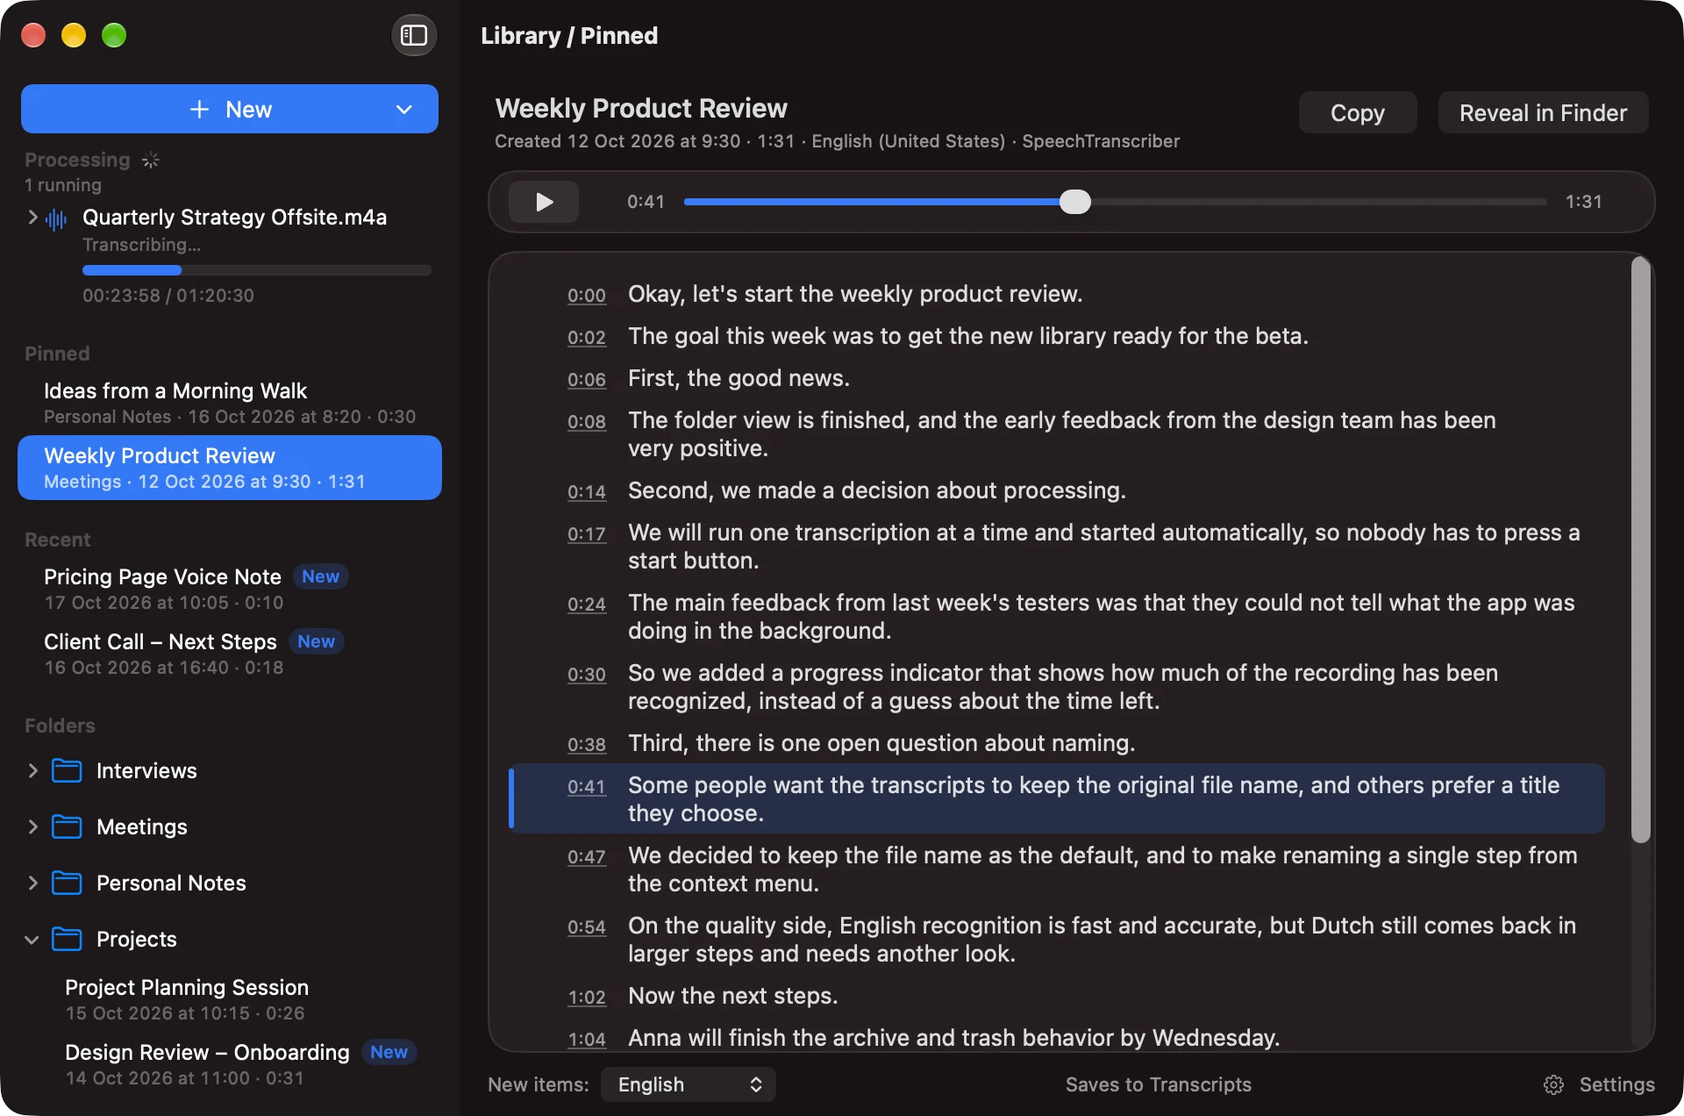
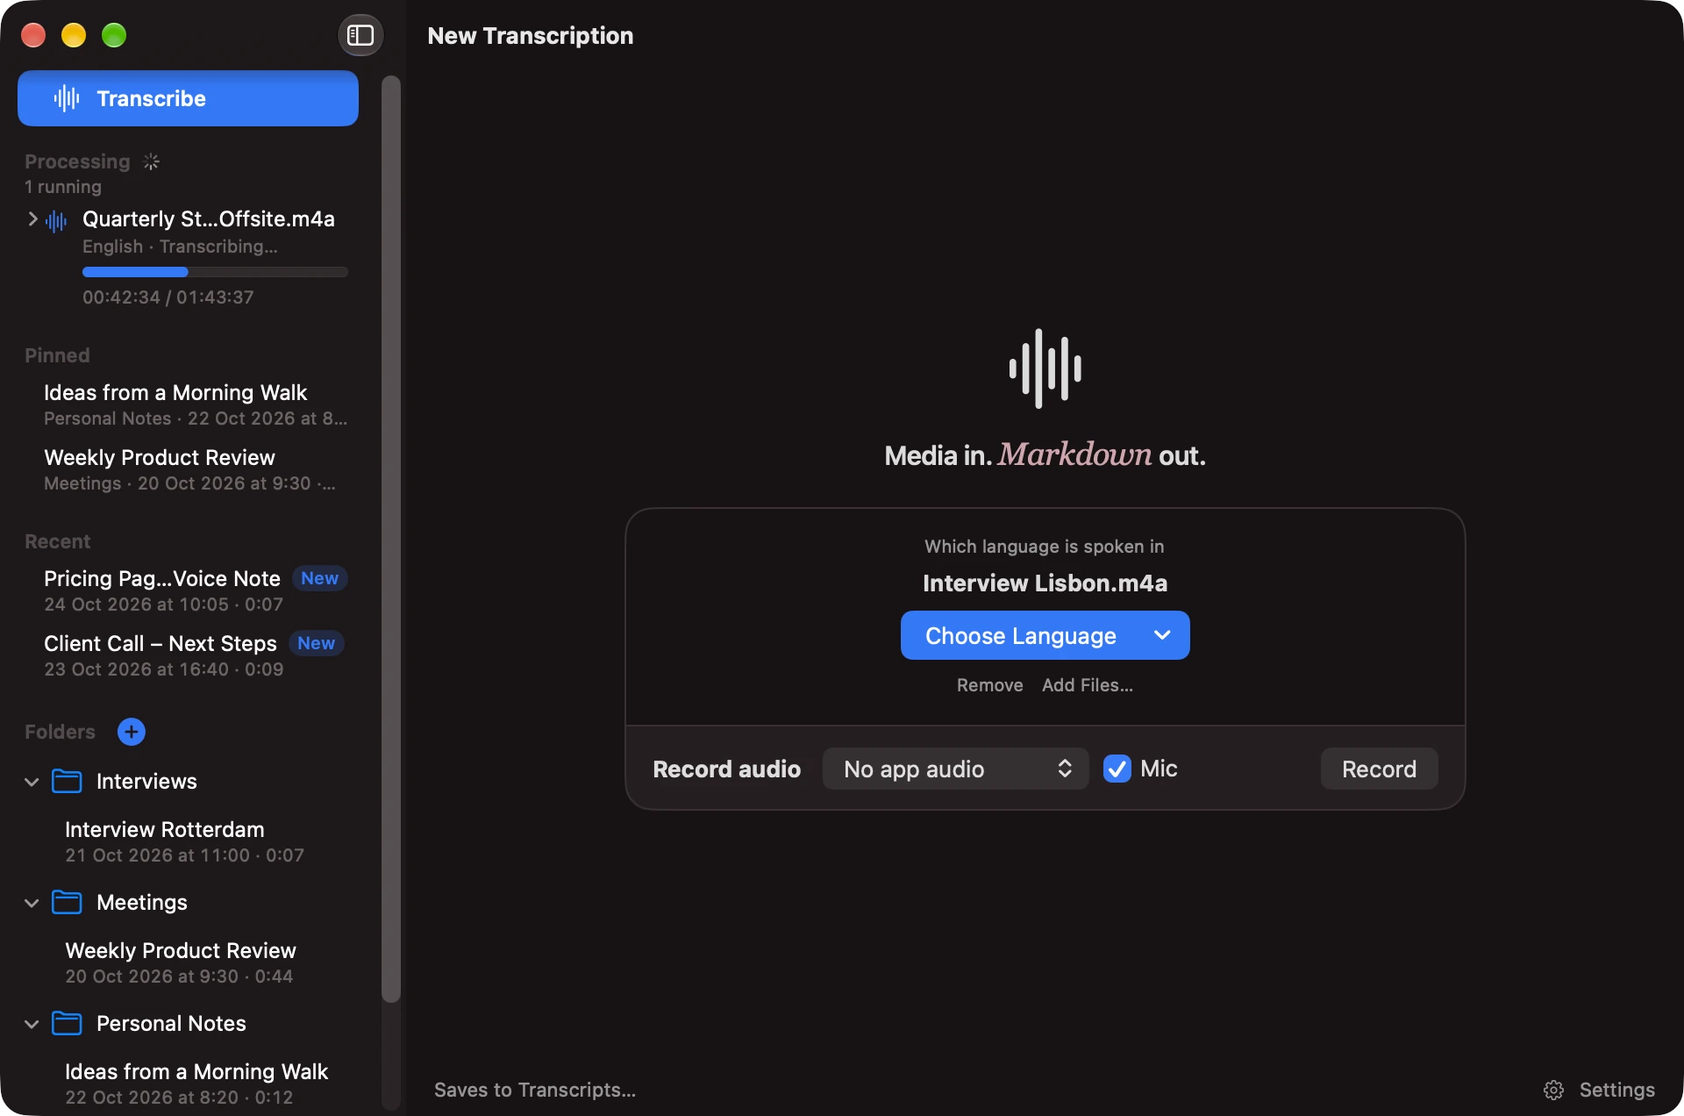
Add the v0.9.0 Journal entry and v0.9.0 screenshots, social preview and alt text (LTR-75)

diff --git a/website/journal/0.9.0/index.html b/website/journal/0.9.0/index.html
@@ -1,0 +1,149 @@
+<!DOCTYPE html>
+<html lang="en">
+<head>
+<meta charset="utf-8">
+<meta name="viewport" content="width=device-width, initial-scale=1">
+<title>0.9.0: Transcription, in your language - Local Transcriber Journal</title>
+<meta name="description" content="0.8.0 kept recordings safe on the way out. 0.9.0 asks which language is spoken in every file, link and recording, keeps a recording until it has one, opens the transcript when it is done, and tidies the place where it all starts.">
+<meta name="theme-color" content="#f3f0ea">
+<link rel="canonical" href="https://transcribe.wavesweb.nl/journal/0.9.0/">
+<meta property="og:type" content="article">
+<meta property="og:site_name" content="Local Transcriber">
+<meta property="og:locale" content="en_US">
+<meta property="og:url" content="https://transcribe.wavesweb.nl/journal/0.9.0/">
+<meta property="og:title" content="0.9.0: Transcription, in your language - Local Transcriber Journal">
+<meta property="og:description" content="0.8.0 kept recordings safe on the way out. 0.9.0 asks which language is spoken in every file, link and recording, keeps a recording until it has one, opens the transcript when it is done, and tidies the place where it all starts.">
+<meta property="og:image" content="https://transcribe.wavesweb.nl/og.png">
+<meta property="og:image:type" content="image/png">
+<meta property="og:image:width" content="1200">
+<meta property="og:image:height" content="630">
+<meta property="og:image:alt" content="Local Transcriber: Media in. Markdown out. The Local Transcriber window with Transcribe selected, a transcription in progress, pinned and recent transcripts and folders.">
+<meta name="twitter:card" content="summary_large_image">
+<link rel="icon" href="/favicon.svg" type="image/svg+xml">
+<link rel="icon" href="/favicon.png" type="image/png" sizes="32x32">
+<link rel="apple-touch-icon" href="/apple-touch-icon.png">
+<link rel="stylesheet" href="/styles.css">
+<script>
+  // Light unless the visitor explicitly saved dark. The OS appearance is ignored.
+  (function () {
+    var root = document.documentElement;
+    root.classList.add("js");
+    try {
+      if (localStorage.getItem("lt-theme") === "dark") {
+        root.setAttribute("data-theme", "dark");
+        document.querySelector('meta[name="theme-color"]').content = "#171214";
+      }
+    } catch (e) {}
+  })();
+</script>
+</head>
+<body>
+
+<a class="skip" href="#main">Skip to content</a>
+
+<header class="nav">
+  <div class="wrap nav-inner">
+    <a class="brand" href="/">
+      <svg class="mark" viewBox="0 0 66 52" width="24" height="19" aria-hidden="true" focusable="false">
+        <rect x="0" y="19" width="6" height="14" rx="3"/>
+        <rect x="10" y="13" width="6" height="26" rx="3"/>
+        <rect x="20" y="7" width="6" height="38" rx="3"/>
+        <rect x="30" y="0" width="6" height="52" rx="3"/>
+        <rect x="40" y="7" width="6" height="38" rx="3"/>
+        <rect x="50" y="13" width="6" height="26" rx="3"/>
+        <rect x="60" y="19" width="6" height="14" rx="3"/>
+      </svg>
+      Local Transcriber
+    </a>
+    <nav class="nav-links" aria-label="Sections">
+      <a href="/#how">How it works</a>
+      <a href="/#output">Output</a>
+      <a href="/#local">Local and network</a>
+      <a href="/#download">Download</a>
+    </nav>
+    <div class="nav-tools">
+      <a class="nav-gh" href="/">Home</a>
+      <a class="nav-gh" href="https://github.com/loneborz/local-transcriber" target="_blank" rel="noopener noreferrer">GitHub</a>
+      <button class="theme-toggle" type="button" data-theme-toggle aria-pressed="false" aria-label="Dark theme">
+        <svg class="icon-sun" viewBox="0 0 24 24" aria-hidden="true" focusable="false"><circle cx="12" cy="12" r="4"/><path d="M12 3.2v1.9M12 18.9v1.9M3.2 12h1.9M18.9 12h1.9M5.8 5.8l1.3 1.3M16.9 16.9l1.3 1.3M5.8 18.2l1.3-1.3M16.9 7.1l1.3-1.3"/></svg>
+        <svg class="icon-moon" viewBox="0 0 24 24" aria-hidden="true" focusable="false"><path d="M18.6 14.8A7.4 7.4 0 1 1 9.2 5.4a6 6 0 0 0 9.4 9.4z"/></svg>
+      </button>
+    </div>
+  </div>
+</header>
+
+<main id="main" class="section journal">
+  <div class="wrap">
+    <article class="journal-grid" id="top">
+      <div>
+        <a class="back" href="/journal/">&larr; Journal</a>
+        <p class="journal-meta">0.9.0<br>Oct 25, 2026<br>GitHub Release</p>
+      </div>
+      <div>
+        <h1>Transcription, in your language</h1>
+        <p class="lead">Until now the language was a menu in the footer. Whatever it said when a file arrived was the language that file got, so files in different languages one after another meant changing the menu in between, and forgetting it meant a transcript in the wrong language. 0.9.0 asks for every file, link and recording instead. The speech recognition is the same as in 0.8; what changed is how a file gets to it.</p>
+        <div class="prose">
+          <h2>One question per file</h2>
+          <p>When I drop a file, paste one or a YouTube link with ⌘V, or choose files from the window, the New Transcription area asks which language is spoken in it. It shows the name and one Choose Language menu, and nothing is preselected: the app doesn't guess. Choosing a language starts the transcription. The three languages I used most recently sit at the top of the menu, so switching between them is one click, and every other supported language is right below.</p>
+          <p>Several files at once are offered one at a time. I can give the next one its language while the first is still transcribing; they run one after another, in order. Remove skips a file without touching the original.</p>
+          <h2>Record first, decide later</h2>
+          <p>A recording is now saved to its own folder before the app asks for its language. If I quit before answering, nothing is lost: the next time the app opens, it offers the recording again and writes the transcript next to the audio. Closing the window while recording still asks first, and the saved recording waits for its language in another window. A crash or a force quit during a recording still loses it.</p>
+          <h2>The transcript comes to me</h2>
+          <p>In 0.7 and 0.8 a finished transcript only appeared in the library with a New badge. Now, when everything I started in a window is done, that window opens the last transcript it saved. If I have opened something else in the meantime, it leaves me there, and a run that only failed opens nothing.</p>
+          <h2>A calmer place to start</h2>
+          <p>The New Transcription screen is one compact surface: the drop area, and below it a single row to record an app's audio, the microphone or both, under the waveform mark. Transcribe at the top of the sidebar brings me back to it and stays selected while it is shown. New Folder is the plus button next to Folders. The footer keeps only the output folder and Settings.</p>
+          <h2>The sixth language</h2>
+          <p>While testing all of this, a transcription in a sixth different language failed with "Too many allocated locales". Apple lets an app keep only a few languages reserved at a time, five on my Mac, and the app never gave one back. Now, when a new language needs room, it releases the one it used least recently. macOS may then remove that language's files, so using it again can mean another download, and until then it may not work offline.</p>
+          <p>The app still doesn't detect the language by itself, and the recognition is Apple's. Dutch transcripts can still come back thin.</p>
+        </div>
+        <nav aria-label="Journal">
+          <a class="back" href="/journal/">&larr; Back to the Journal</a>
+          <a class="back" href="/journal/0.8.0/" rel="prev">Earlier story: 0.8.0</a>
+        </nav>
+      </div>
+    </article>
+  </div>
+</main>
+
+<footer class="footer">
+  <div class="wrap footer-inner">
+    <p>
+      Local Transcriber is open source under the
+      <a href="https://github.com/loneborz/local-transcriber/blob/main/LICENSE" target="_blank" rel="noopener noreferrer">MIT License</a>.
+      A <a href="https://wavesweb.nl/">Wavesweb</a> Labs project.
+    </p>
+    <nav aria-label="Footer">
+      <a href="/journal/">Journal</a>
+      <a href="https://github.com/loneborz/local-transcriber" target="_blank" rel="noopener noreferrer">GitHub</a>
+      <a href="https://github.com/loneborz/local-transcriber#readme" target="_blank" rel="noopener noreferrer">README</a>
+      <a href="#top">Back to top</a>
+    </nav>
+  </div>
+</footer>
+
+<script>
+  (function () {
+    var root = document.documentElement;
+    var button = document.querySelector("[data-theme-toggle]");
+    var meta = document.querySelector('meta[name="theme-color"]');
+    function sync() {
+      var dark = root.getAttribute("data-theme") === "dark";
+      button.setAttribute("aria-pressed", dark ? "true" : "false");
+      meta.content = dark ? "#171214" : "#f3f0ea";
+    }
+    button.addEventListener("click", function () {
+      var next = root.getAttribute("data-theme") === "dark" ? "light" : "dark";
+      // Switch with transitions off, so the change lands at once.
+      root.classList.add("theme-switching");
+      root.setAttribute("data-theme", next);
+      getComputedStyle(root).colorScheme;
+      root.classList.remove("theme-switching");
+      try { localStorage.setItem("lt-theme", next); } catch (e) {}
+      sync();
+    });
+    sync();
+  })();
+</script>
+
+</body>
+</html>

diff --git a/website/index.html b/website/index.html
@@ -17,12 +17,12 @@
 <meta property="og:image:type" content="image/png">
 <meta property="og:image:width" content="1200">
 <meta property="og:image:height" content="630">
-<meta property="og:image:alt" content="Local Transcriber: Media in. Markdown out. The Local Transcriber window with a transcription in progress, pinned and recent transcripts and folders, and an open transcript with its current line highlighted.">
+<meta property="og:image:alt" content="Local Transcriber: Media in. Markdown out. The Local Transcriber window with Transcribe selected, a transcription in progress, pinned and recent transcripts and folders.">
 <meta name="twitter:card" content="summary_large_image">
 <meta name="twitter:title" content="Local Transcriber - Media in. Markdown out.">
 <meta name="twitter:description" content="A native macOS app that turns audio, video, YouTube links and your own recordings into timestamped Markdown transcripts, with speech recognition on your Mac.">
 <meta name="twitter:image" content="https://transcribe.wavesweb.nl/og.png">
-<meta name="twitter:image:alt" content="Local Transcriber: Media in. Markdown out. The Local Transcriber window with a transcription in progress, pinned and recent transcripts and folders, and an open transcript with its current line highlighted.">
+<meta name="twitter:image:alt" content="Local Transcriber: Media in. Markdown out. The Local Transcriber window with Transcribe selected, a transcription in progress, pinned and recent transcripts and folders.">
 <link rel="icon" href="favicon.svg" type="image/svg+xml">
 <link rel="icon" href="favicon.png" type="image/png" sizes="32x32">
 <link rel="apple-touch-icon" href="apple-touch-icon.png">
@@ -106,9 +106,9 @@
     <div class="hero-visual">
       <figure class="shot">
         <img class="shot-light" src="assets/library-light.webp" width="1920" height="1272"
-             alt="The Local Transcriber window as it looked in version 0.7.0: the sidebar shows a transcription in progress under Processing with its progress bar and position, Pinned and Recent transcripts with New badges, and folders; the Weekly Product Review transcript is open with a player at 0:41 of 1:31 and timestamped lines, the line at 0:41 highlighted; the footer of that version shows the language for new items, the output folder and Settings.">
+             alt="The Local Transcriber window: the sidebar has Transcribe selected, a transcription in progress under Processing with its language, progress bar and position, Pinned and Recent transcripts with New badges, and folders with the plus button for a new folder; New Transcription shows the waveform mark and the compact composer, which asks which language is spoken in Interview Lisbon.m4a with a Choose Language menu above the Record audio row; the footer shows the output folder and Settings.">
         <img class="shot-dark" src="assets/library-dark.webp" width="1920" height="1272"
-             alt="The Local Transcriber window as it looked in version 0.7.0: the sidebar shows a transcription in progress under Processing with its progress bar and position, Pinned and Recent transcripts with New badges, and folders; the Weekly Product Review transcript is open with a player at 0:41 of 1:31 and timestamped lines, the line at 0:41 highlighted; the footer of that version shows the language for new items, the output folder and Settings.">
+             alt="The Local Transcriber window: the sidebar has Transcribe selected, a transcription in progress under Processing with its language, progress bar and position, Pinned and Recent transcripts with New badges, and folders with the plus button for a new folder; New Transcription shows the waveform mark and the compact composer, which asks which language is spoken in Interview Lisbon.m4a with a Choose Language menu above the Record audio row; the footer shows the output folder and Settings.">
       </figure>
     </div>
 
@@ -117,7 +117,7 @@
 <pre tabindex="0"><code><span class="md-h"># Weekly Product Review</span>
 
 <span class="md-k">**Source:**</span> `Weekly Product Review.m4a`
-<span class="md-k">**Duration:**</span> 00:01:31
+<span class="md-k">**Duration:**</span> 00:00:44
 <span class="md-k">**Language:**</span> en-US
 <span class="md-k">**Engine:**</span> Apple SpeechAnalyzer
 
@@ -125,7 +125,7 @@
 
 <span class="md-h">### 00:00:00</span>
 
-Okay, let's start the weekly product review. The goal this week was to get the new library ready for the beta. First, the good news. The folder view is finished, and the early feedback from the design team has been very positive. <span class="md-dim">…</span></code></pre>
+Okay, let's start the weekly product review. The goal this week was to get the language choice ready for the beta. First, the good news. Every file now asks which language is spoken before it starts, and the early feedback from the design team has been very positive. <span class="md-dim">…</span></code></pre>
     </figure>
   </div>
 </section>

diff --git a/website/journal/index.html b/website/journal/index.html
@@ -17,7 +17,7 @@
 <meta property="og:image:type" content="image/png">
 <meta property="og:image:width" content="1200">
 <meta property="og:image:height" content="630">
-<meta property="og:image:alt" content="Local Transcriber: Media in. Markdown out. The Local Transcriber window with a transcription in progress, pinned and recent transcripts and folders, and an open transcript with its current line highlighted.">
+<meta property="og:image:alt" content="Local Transcriber: Media in. Markdown out. The Local Transcriber window with Transcribe selected, a transcription in progress, pinned and recent transcripts and folders.">
 <meta name="twitter:card" content="summary_large_image">
 <link rel="icon" href="/favicon.svg" type="image/svg+xml">
 <link rel="icon" href="/favicon.png" type="image/png" sizes="32x32">
@@ -82,6 +82,13 @@
     </header>
 
     <ol class="entries">
+      <li class="entry journal-grid">
+        <p class="journal-meta">0.9.0<br>Oct 25, 2026<br>GitHub Release</p>
+        <div>
+          <h2><a href="/journal/0.9.0/">Transcription, in your language</a></h2>
+          <p>0.8.0 kept recordings safe on the way out. 0.9.0 asks which language is spoken in every file, link and recording, keeps a recording until it has one, opens the transcript when it is done, and tidies the place where it all starts.</p>
+        </div>
+      </li>
       <li class="entry journal-grid">
         <p class="journal-meta">0.8.0<br>Oct 17–25, 2026<br>GitHub Release</p>
         <div>

diff --git a/website/journal/0.8.0/index.html b/website/journal/0.8.0/index.html
@@ -17,7 +17,7 @@
 <meta property="og:image:type" content="image/png">
 <meta property="og:image:width" content="1200">
 <meta property="og:image:height" content="630">
-<meta property="og:image:alt" content="Local Transcriber: Media in. Markdown out. The Local Transcriber window with a transcription in progress, pinned and recent transcripts and folders, and an open transcript with its current line highlighted.">
+<meta property="og:image:alt" content="Local Transcriber: Media in. Markdown out. The Local Transcriber window with Transcribe selected, a transcription in progress, pinned and recent transcripts and folders.">
 <meta name="twitter:card" content="summary_large_image">
 <link rel="icon" href="/favicon.svg" type="image/svg+xml">
 <link rel="icon" href="/favicon.png" type="image/png" sizes="32x32">
@@ -101,6 +101,7 @@
         <nav aria-label="Journal">
           <a class="back" href="/journal/">&larr; Back to the Journal</a>
           <a class="back" href="/journal/0.7.0/" rel="prev">Earlier story: 0.7.0</a>
+          <a class="back" href="/journal/0.9.0/" rel="next">Later story: 0.9.0</a>
         </nav>
       </div>
     </article>

diff --git a/website/journal/0.7.0/index.html b/website/journal/0.7.0/index.html
@@ -17,7 +17,7 @@
 <meta property="og:image:type" content="image/png">
 <meta property="og:image:width" content="1200">
 <meta property="og:image:height" content="630">
-<meta property="og:image:alt" content="Local Transcriber: Media in. Markdown out. The Local Transcriber window with a transcription in progress, pinned and recent transcripts and folders, and an open transcript with its current line highlighted.">
+<meta property="og:image:alt" content="Local Transcriber: Media in. Markdown out. The Local Transcriber window with Transcribe selected, a transcription in progress, pinned and recent transcripts and folders.">
 <meta name="twitter:card" content="summary_large_image">
 <link rel="icon" href="/favicon.svg" type="image/svg+xml">
 <link rel="icon" href="/favicon.png" type="image/png" sizes="32x32">

diff --git a/README.md b/README.md
@@ -4,9 +4,9 @@
 
 Local Transcriber is a native macOS app that turns audio, video, YouTube links and your own recordings into timestamped Markdown transcripts. I built it because the media was already on my Mac and I didn't want to send it somewhere else to get text back. Speech recognition runs on your Mac with Apple's on-device speech stack. There is no cloud service, no account and no model picker.
 
-<img src="website/assets/library-light.webp" alt="The Local Transcriber window: Processing shows a long file being transcribed with its progress, while the Library lists pinned and recent transcripts and folders, and the open Weekly Product Review transcript plays with the current line highlighted." width="1920" height="1272">
+<img src="website/assets/library-light.webp" alt="The Local Transcriber window: Transcribe is selected in the sidebar, Processing shows a long file being transcribed in English with its progress, the Library lists pinned and recent transcripts and folders, and New Transcription asks which language is spoken in Interview Lisbon.m4a." width="1920" height="1272">
 
-*One file is transcribing in the background (Processing, top of the sidebar) while the Library, with pinned and recent transcripts, New badges and folders, stays open on a transcript: timestamped lines, a player, and the line being played highlighted. The same transcript is saved as a Markdown file you keep.*
+*One file is transcribing in the background (Processing, near the top of the sidebar) while the next one waits for its language: New Transcription shows its name and a Choose Language menu above the recording row. The Library below Processing holds pinned and recent transcripts, New badges and folders; each transcript is a Markdown file you keep.*
 
 ## Download
 
@@ -94,7 +94,7 @@ Only values that are known are written: `source` (the file name, or the video's 
 
 ## Library and review
 
-The sidebar lists what is in your output folder: Pinned, Folders (real folders you create with the folder button or ⇧⌘N), Recent (transcripts in no folder) and Archive, with the one in progress above them. Right-click a transcript (or use the Transcript menu) to rename it, pin it, archive it, move it to a folder, or move it to the Trash. You can also drag a transcript onto a folder to move it there; an open transcript stays open and keeps playing. Rename changes the folder and file name only; archive changes nothing on disk except `entry.json`; Move to Trash asks first and never deletes permanently. The app scans the output folder and the folders directly inside it, nothing deeper. Nothing is imported and no database or index is created, so changes made in Finder show up after a refresh (⌘R). Select a transcript to read it in the window. The Markdown file stays the source of truth, and Copy puts all of it on the clipboard, except a YAML block at the top of the file.
+Transcribe at the top of the sidebar opens New Transcription and stays selected while it is shown. Below it the sidebar lists what is in your output folder: Pinned, Folders (real folders you create with the plus button next to Folders or ⇧⌘N), Recent (transcripts in no folder) and Archive, with the one in progress above them. Right-click a transcript (or use the Transcript menu) to rename it, pin it, archive it, move it to a folder, or move it to the Trash. You can also drag a transcript onto a folder to move it there; an open transcript stays open and keeps playing. Rename changes the folder and file name only; archive changes nothing on disk except `entry.json`; Move to Trash asks first and never deletes permanently. The app scans the output folder and the folders directly inside it, nothing deeper. Nothing is imported and no database or index is created, so changes made in Finder show up after a refresh (⌘R). Select a transcript to read it in the window. The Markdown file stays the source of truth, and Copy puts all of it on the clipboard, except a YAML block at the top of the file.
 
 Each new transcript also gets a `Name.timing.json` next to its Markdown (`transcript.timing.json` inside a source package) with the recognizer's timing. The Markdown itself doesn't change. The timing is used only when it belongs to that Markdown, by its checksum and the text of its lines. Otherwise the transcript opens as plain Markdown with a short note, which is also how transcripts made before 0.6 open.
 
